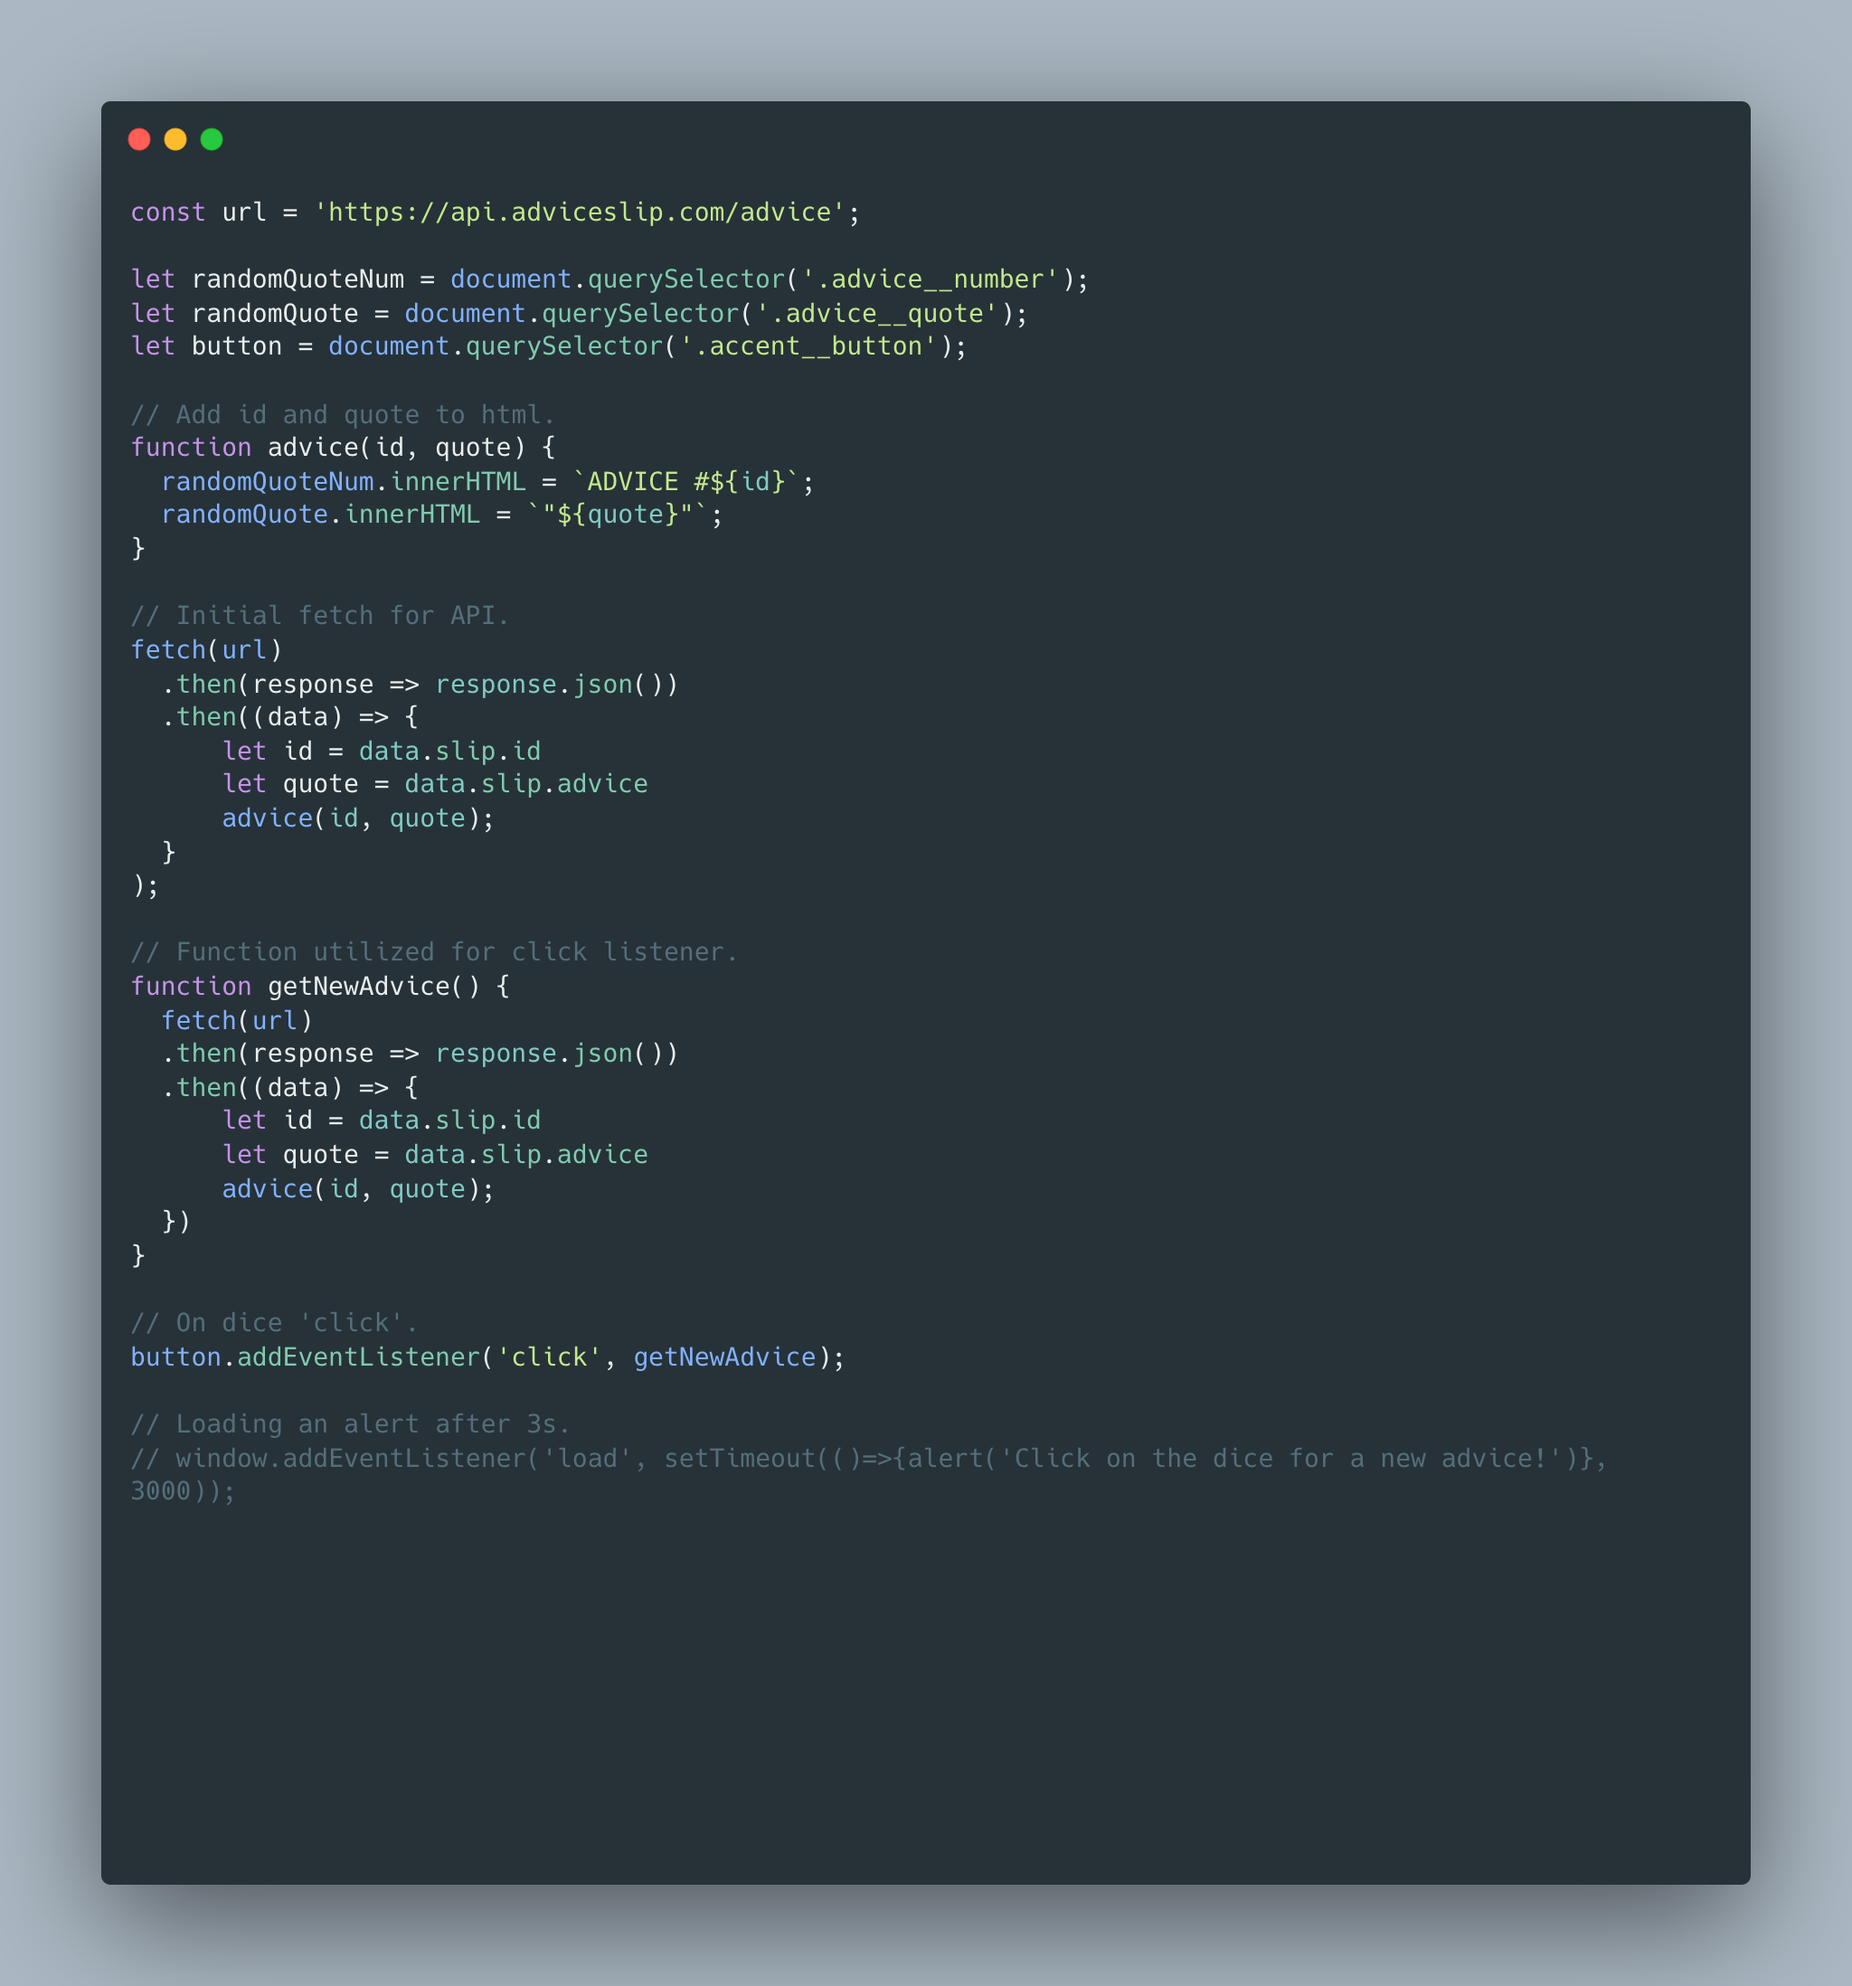
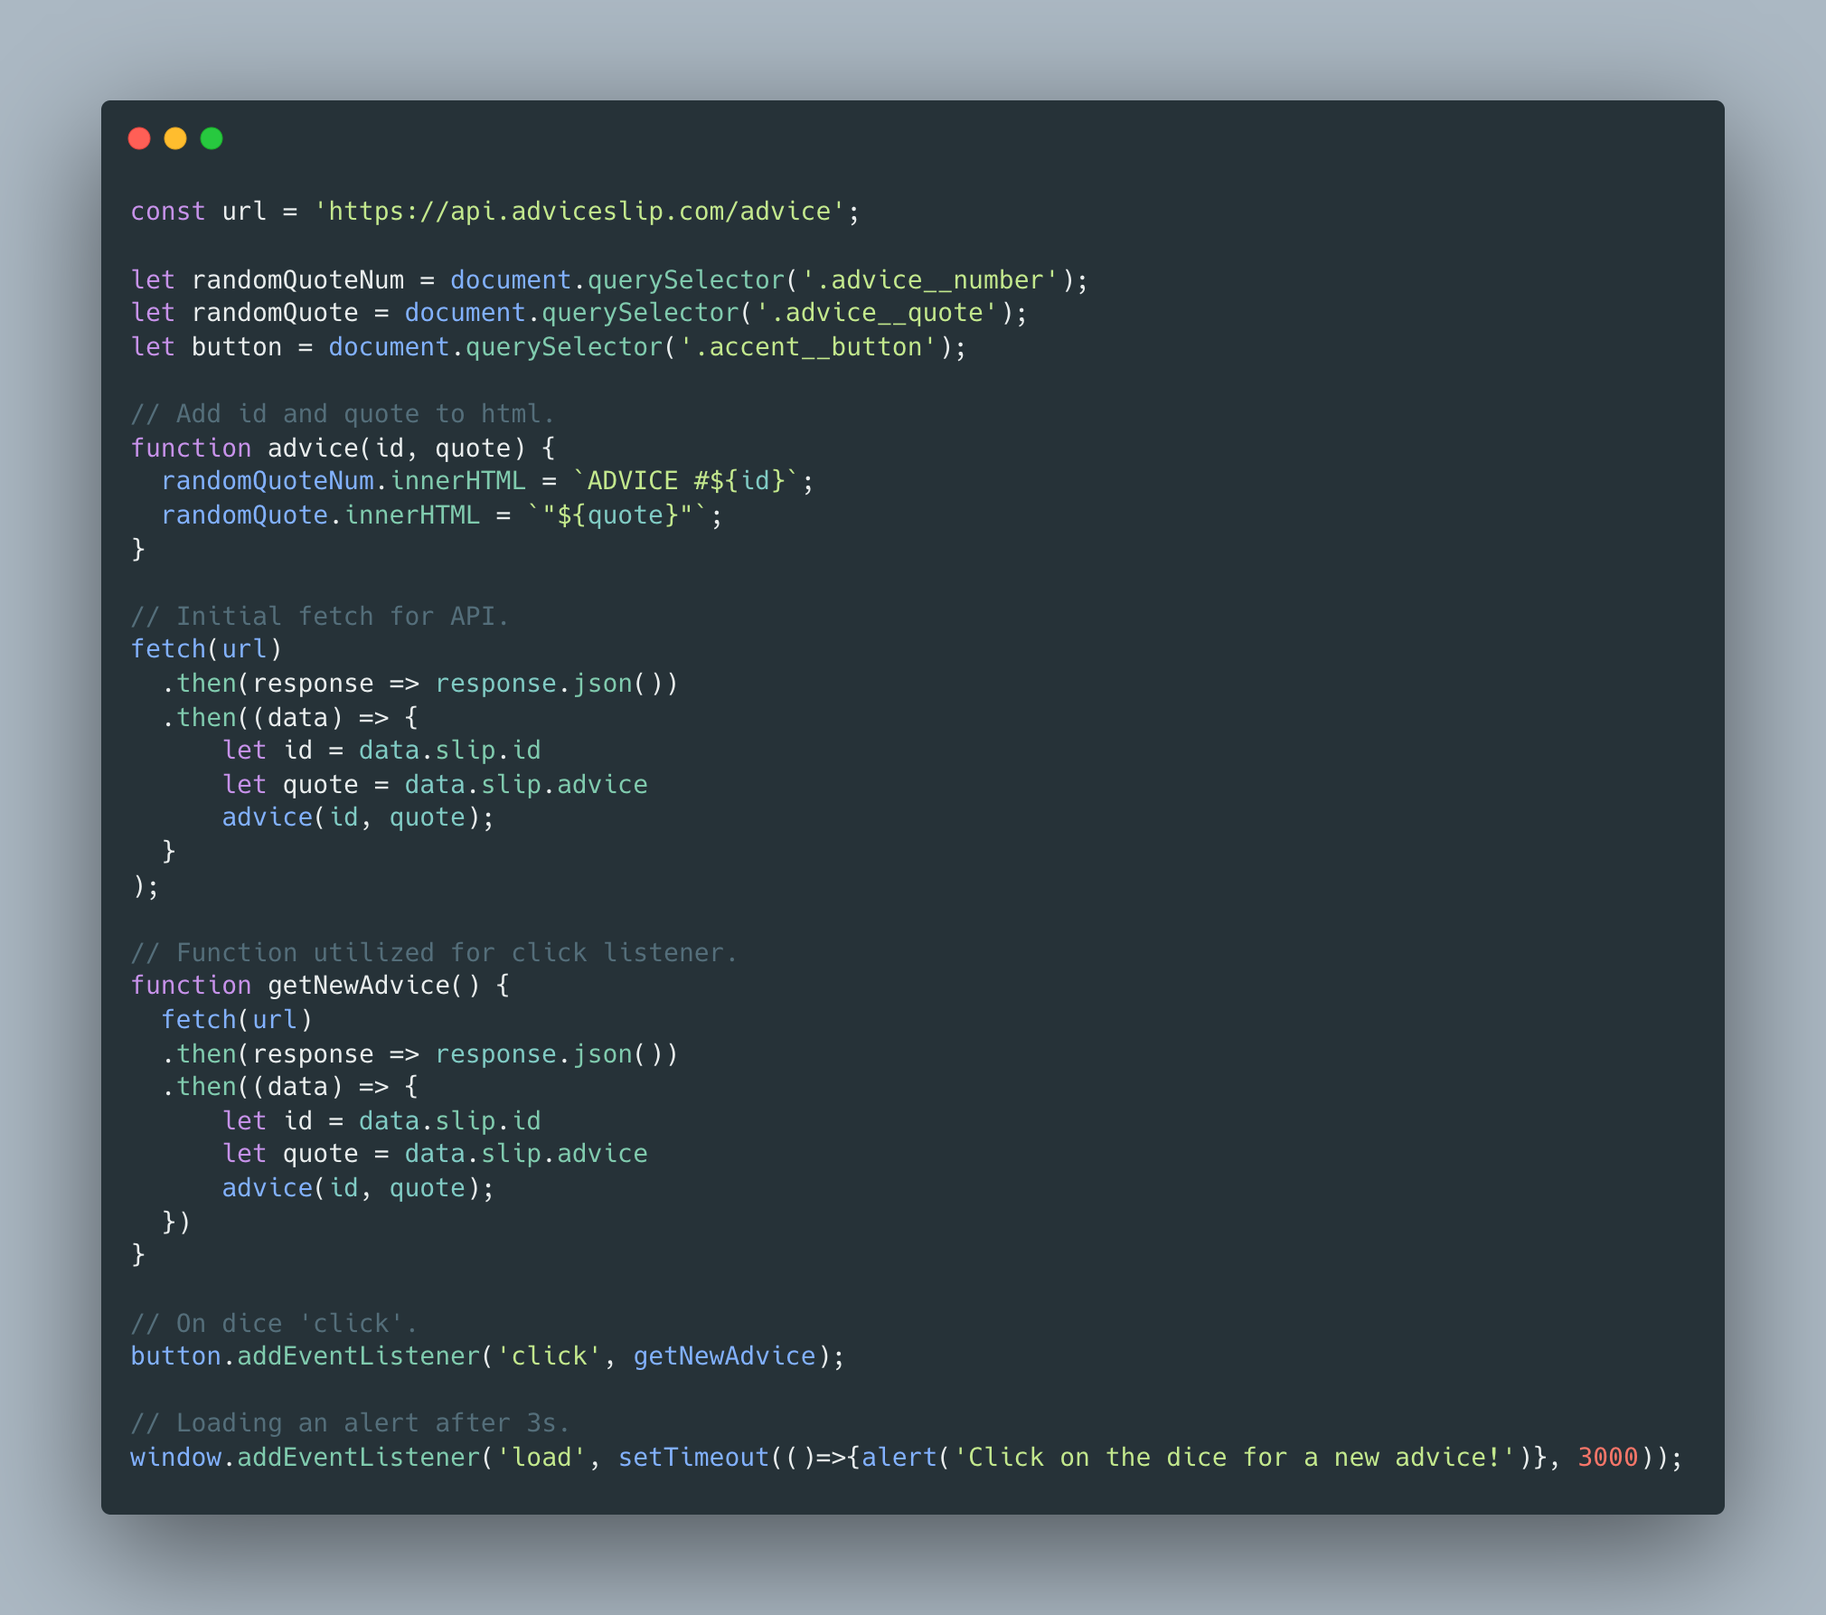
final changes made

diff --git a/challenge-5/script/script.js b/challenge-5/script/script.js
@@ -35,4 +35,4 @@ function getNewAdvice() {
 button.addEventListener('click', getNewAdvice);
 
 // Loading an alert after 3s.
-// window.addEventListener('load', setTimeout(()=>{alert('Click on the dice for a new advice!')}, 3000));
+window.addEventListener('load', setTimeout(()=>{alert('Click on the dice for a new advice!')}, 3000));
